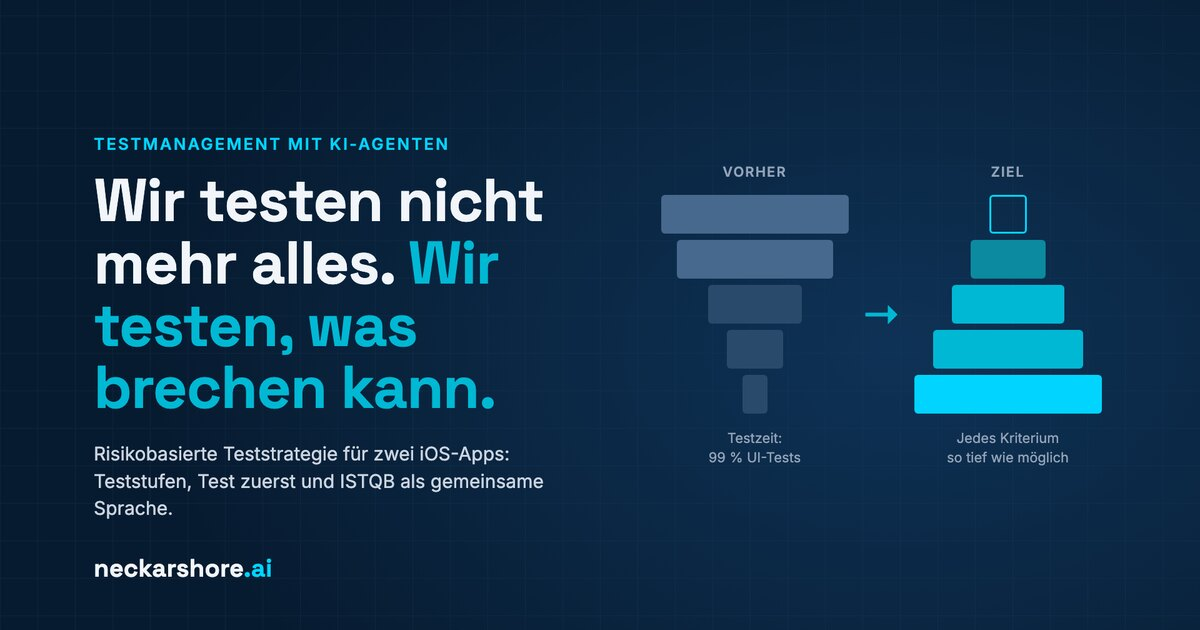
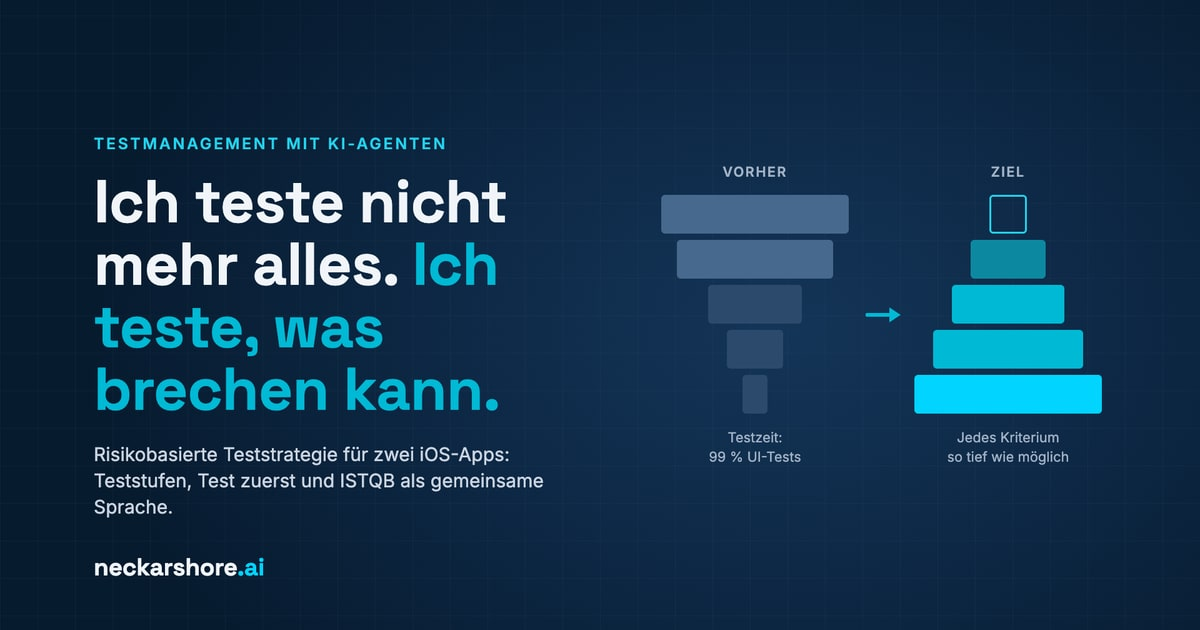
feat(blog): cover of the test-strategy article says "Ich teste", with its source in the repo (agent-bridge #41) (#405)
#41 moved the article title to the first person (PR #404); the cover and the
share image still showed "Wir testen nicht mehr alles" as graphic text. The
first cover (PR #355) had no source in the repo, so it was rebuilt as HTML in
scripts/blog-cover/, measured against the original (positions, bar widths,
colours, type sizes), and rendered by scripts/blog-cover/render.mjs into
titelbild.webp (1920x1080) and og.jpg (1200x630, the original's crop). The
alt text follows. The Founder looked at the side-by-side comparison in Linus'
terminal on 2026-11-27 and said "Passt".

Claude-Session: https://claude.ai/code/session_01Tixeto7vP33vBUk2iWmnmQ

diff --git a/scripts/blog-cover/risikobasierte-teststrategie-ios.html b/scripts/blog-cover/risikobasierte-teststrategie-ios.html
@@ -1,0 +1,67 @@
+<!doctype html>
+<!-- Source of the cover of /blog/risikobasierte-teststrategie-ios (1920x1080).
+     Rendered to public/blog/risikobasierte-teststrategie-ios/titelbild.webp and og.jpg by
+     scripts/blog-cover/render.mjs. Rebuilt 2026-11-27 after agent-bridge #41 moved the
+     title to the first person; the first cover (PR #355) had no source in the repo. -->
+<html lang="de">
+<head>
+<meta charset="utf-8">
+<link rel="preconnect" href="https://fonts.googleapis.com">
+<link href="https://fonts.googleapis.com/css2?family=Inter:wght@400;500;600&family=Space+Grotesk:wght@600;700&display=block" rel="stylesheet">
+<style>
+  :root { --cyan: #00d4ff; --cyan-text: #22d3ee; --cyan-deep: #00b9d5; --teal: #0c89a1;
+          --grey-hi: #46698d; --grey-lo: #2c4a6b; --label: #a3b3c6; --sub: #cbd5e1; --white: #f1f5f9; }
+  * { margin: 0; padding: 0; box-sizing: border-box; }
+  html, body { width: 1920px; height: 1080px; overflow: hidden; }
+  body {
+    position: relative; font-family: Inter, sans-serif; color: var(--white);
+    background:
+      linear-gradient(rgba(255,255,255,0.03) 1px, transparent 1px) 0 0 / 60px 60px,
+      linear-gradient(90deg, rgba(255,255,255,0.03) 1px, transparent 1px) 0 0 / 60px 60px,
+      radial-gradient(ellipse 1100px 800px at 1250px 560px, #143558 0%, #0d2845 50%, #071b2f 100%);
+  }
+  .links { position: absolute; left: 150px; top: 250px; width: 760px; }
+  .kicker { font-weight: 600; font-size: 25px; letter-spacing: 0.14em; color: var(--cyan-text); text-transform: uppercase; }
+  h1 { margin-top: 28px; font-family: "Space Grotesk", sans-serif; font-weight: 700; font-size: 96px;
+       line-height: 100px; letter-spacing: -0.01em; color: var(--white); }
+  h1 span { color: var(--cyan-deep); }
+  .unter { margin-top: 33px; font-size: 30px; line-height: 42px; color: var(--sub); max-width: 760px; }
+  .logo { position: absolute; left: 150px; top: 918px; font-family: "Space Grotesk", sans-serif;
+          font-weight: 700; font-size: 39px; color: var(--white); letter-spacing: -0.01em; }
+  .logo span { color: var(--cyan); }
+  .label { position: absolute; top: 297px; width: 300px; text-align: center; font-weight: 600;
+           font-size: 22px; letter-spacing: 0.1em; color: var(--label); }
+  .bar { position: absolute; height: 62px; border-radius: 6px; }
+  .cap { position: absolute; top: 720px; width: 360px; text-align: center; font-size: 22px; line-height: 31px; color: var(--label); }
+  .pfeil { position: absolute; left: 1385px; top: 536px; width: 40px; height: 6px; background: var(--cyan-deep); border-radius: 2px; }
+  .pfeil::after { content: ""; position: absolute; right: -16px; top: -9px; border-left: 18px solid var(--cyan-deep);
+                  border-top: 12px solid transparent; border-bottom: 12px solid transparent; }
+</style>
+</head>
+<body>
+  <div class="links">
+    <p class="kicker">Testmanagement mit KI-Agenten</p>
+    <h1>Ich teste nicht mehr alles. <span>Ich teste, was brechen kann.</span></h1>
+    <p class="unter">Risikobasierte Teststrategie für zwei iOS-Apps: Teststufen, Test zuerst und ISTQB als gemeinsame Sprache.</p>
+  </div>
+  <p class="logo">neckarshore<span>.ai</span></p>
+
+  <p class="label" style="left:1058px">VORHER</p>
+  <div class="bar" style="left:1058px;top:347px;width:300px;background:var(--grey-hi)"></div>
+  <div class="bar" style="left:1083px;top:419px;width:250px;background:var(--grey-hi)"></div>
+  <div class="bar" style="left:1133px;top:491px;width:150px;background:var(--grey-lo)"></div>
+  <div class="bar" style="left:1163px;top:563px;width:90px;background:var(--grey-lo)"></div>
+  <div class="bar" style="left:1188px;top:635px;width:40px;background:var(--grey-lo)"></div>
+  <p class="cap" style="left:1028px">Testzeit:<br>99 % UI-Tests</p>
+
+  <div class="pfeil"></div>
+
+  <p class="label" style="left:1463px">ZIEL</p>
+  <div class="bar" style="left:1583px;top:347px;width:60px;border:3px solid var(--cyan-text);background:transparent"></div>
+  <div class="bar" style="left:1553px;top:419px;width:120px;background:var(--teal)"></div>
+  <div class="bar" style="left:1523px;top:491px;width:180px;background:var(--cyan-deep)"></div>
+  <div class="bar" style="left:1493px;top:563px;width:240px;background:var(--cyan-deep)"></div>
+  <div class="bar" style="left:1463px;top:635px;width:300px;background:var(--cyan)"></div>
+  <p class="cap" style="left:1433px">Jedes Kriterium<br>so tief wie möglich</p>
+</body>
+</html>

diff --git a/src/content/blog/risikobasierte-teststrategie-ios.md b/src/content/blog/risikobasierte-teststrategie-ios.md
@@ -11,7 +11,7 @@ cover:
   src: "/blog/risikobasierte-teststrategie-ios/titelbild.webp"
   width: 1920
   height: 1080
-  alt: "Titelgrafik: Links der Satz „Wir testen nicht mehr alles. Wir testen, was brechen kann.“ Rechts zwei Testpyramiden. Vorher steht sie auf dem Kopf, mit 99 Prozent der Testzeit in UI-Tests. Das Ziel ist eine Pyramide mit breitem Fundament: jedes Kriterium so tief wie möglich."
+  alt: "Titelgrafik: Links der Satz „Ich teste nicht mehr alles. Ich teste, was brechen kann.“ Rechts zwei Testpyramiden. Vorher steht sie auf dem Kopf, mit 99 Prozent der Testzeit in UI-Tests. Das Ziel ist eine Pyramide mit breitem Fundament: jedes Kriterium so tief wie möglich."
   caption: "Vorher: 99 % der Testzeit in UI-Tests. Ziel: jedes Kriterium so tief wie möglich."
   credit: "Grafik: neckarshore.ai, erstellt mit KI-Unterstützung (Claude)"
 ogImage: "/blog/risikobasierte-teststrategie-ios/og.jpg"
